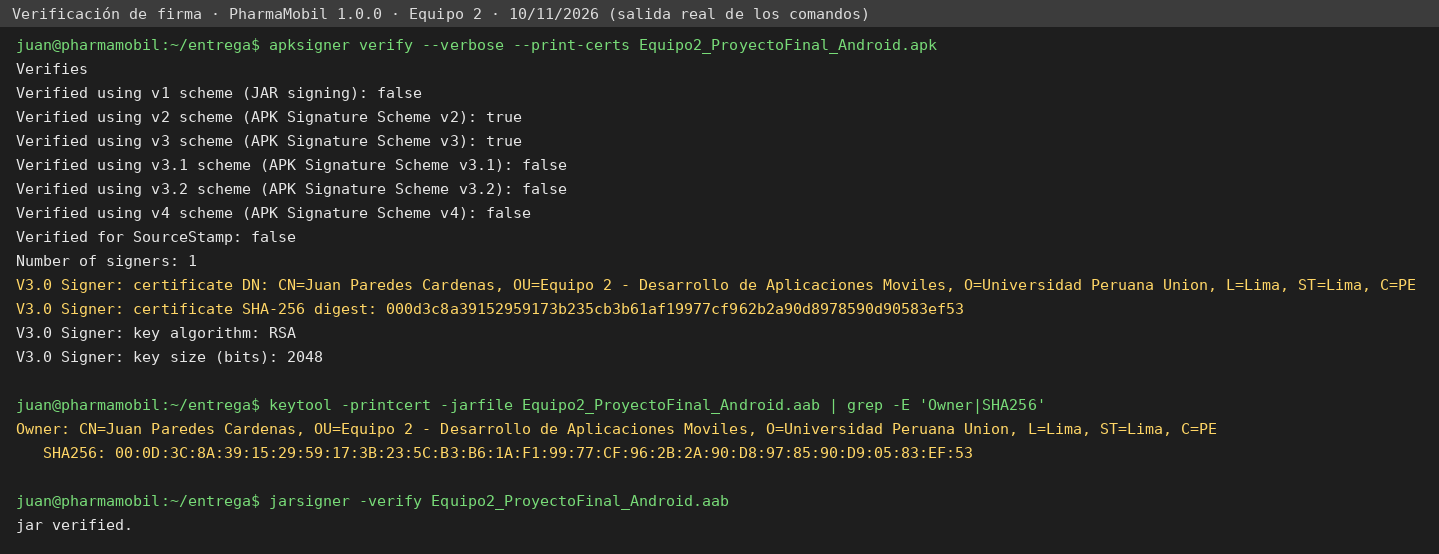
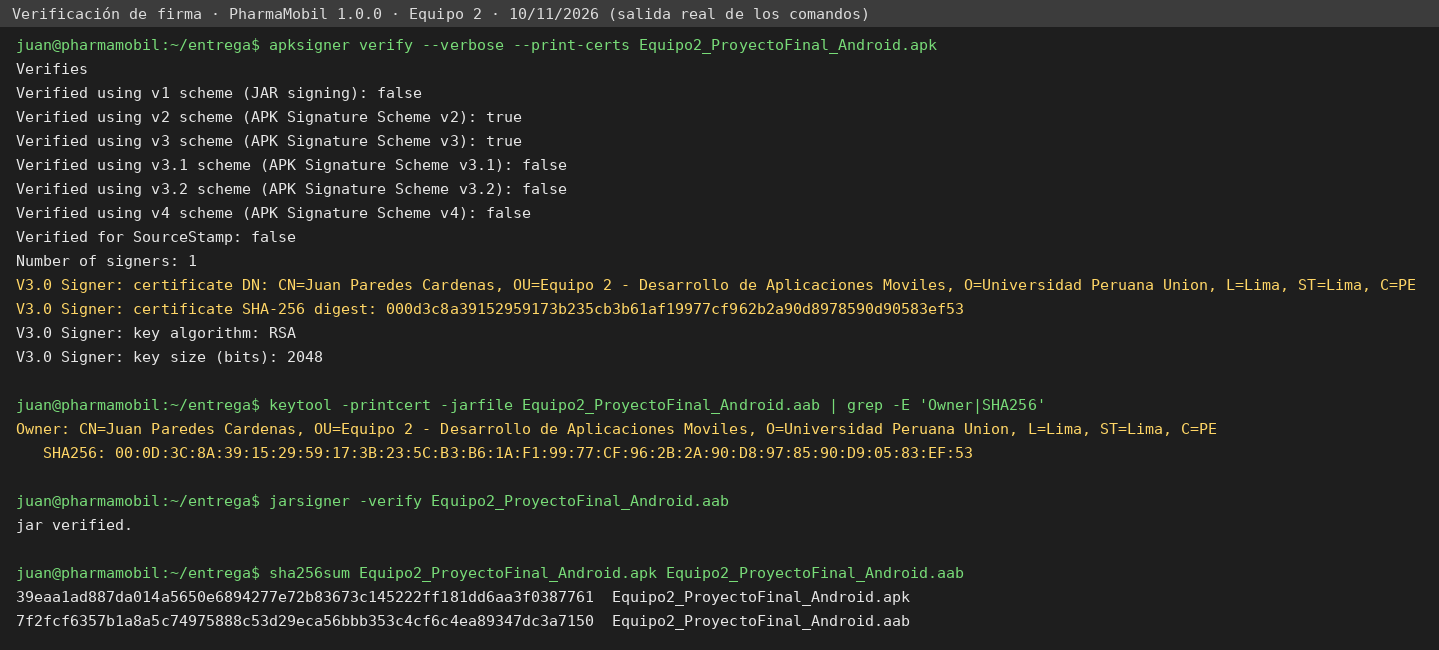
docs(sesion14): firma y huella del APK y AAB definitivos que apuntan a Azure; quitar cache de Python
Claude-Session: https://claude.ai/code/session_01FTSFct5Q4FZG8KVVbrUBPt

Changed region(s): [[0.0, 0.0, 1.0, 0.8285], [0.0, 0.8592, 0.6727, 0.9819], [0.3669, 0.3375, 0.3975, 0.3682]]

diff --git a/docs/sesion14-builds.md b/docs/sesion14-builds.md
@@ -100,16 +100,18 @@ habría que publicar la aplicación con otro identificador.
 ejecuta en GitHub Actions (Ubuntu, JDK 21, AGP 9.0.1, build-tools 37.0.0) las dos tareas de la guía:
 
 ```bash
-./gradlew :androidApp:bundleRelease  -PpharmaApiUrl=http://10.40.28.47:8080/api/v1/   # → .aab (entregable E3)
-./gradlew :androidApp:assembleRelease -PpharmaApiUrl=http://10.40.28.47:8080/api/v1/   # → .apk (pruebas)
+./gradlew :androidApp:bundleRelease  -PpharmaApiUrl=https://pharmasoft-equipo2-upeu.azurewebsites.net/api/v1/   # → .aab (entregable E3)
+./gradlew :androidApp:assembleRelease -PpharmaApiUrl=https://pharmasoft-equipo2-upeu.azurewebsites.net/api/v1/   # → .apk (pruebas)
 ```
 
-`10.40.28.47` es la IPv4 del Wi-Fi de la PC donde corre PharmaSoft (`ipconfig`), tomada de
-[ci/sesion14/pharma-api-url.txt](../ci/sesion14/pharma-api-url.txt).
+La URL se toma de [ci/sesion14/pharma-api-url.txt](../ci/sesion14/pharma-api-url.txt). Primero se compiló con la
+IPv4 de la PC en el Wi-Fi de la universidad (`http://10.40.28.47:8080/api/v1/`, run `42890970597`); como esa red
+(10.40.x.x) no garantiza que el teléfono alcance la PC, PharmaSoft se publicó en Azure App Service
+(ver «Servicio en Azure» más abajo) y el APK definitivo apunta a `https://pharmasoft-equipo2-upeu.azurewebsites.net/api/v1/`.
 
 **Quién firma.** Con `keystore.properties` presente (PC del responsable o *Secrets* de GitHub), Gradle firma al
 compilar. En esta entrega no se cargaron los *Secrets* en GitHub, así que el workflow publica los dos artefactos
-**sin firmar** (rama `evidencias-s14-ci`, carpeta `entrega/sin-firmar`, run `42890970597`, commit `2791574`) junto
+**sin firmar** (rama `evidencias-s14-ci`, carpeta `entrega/sin-firmar`, run `42902994003`, commit `1b69cb5`) junto
 con `apksigner.jar` de build-tools 37.0.0, y el responsable los firmó fuera del repositorio con `equipo2.jks`
 mediante [scripts/firmar-entrega.sh](../scripts/firmar-entrega.sh): `apksigner sign` para el APK (esquemas v2 y
 v3) y `jarsigner` SHA256withRSA para el AAB, que es el mecanismo con que Gradle firma un paquete de aplicación.
@@ -128,8 +130,8 @@ compilación; esos archivos no se entregan.
 | `jarsigner -verify` (AAB) | `jar verified.` con el mismo titular y huella (`keytool -printcert -jarfile`) |
 | `bundletool validate` y `build-apks --mode=universal` | El AAB se valida y produce `universal.apk`, que instala y abre en el emulador (`evidencias-ci/emulador/00-universal-desde-aab.png`) |
 | Alineación del APK | 0 entradas sin comprimir desalineadas |
[4 lines of base64/hex data omitted]
 
 La contraseña no aparece en ningún registro ni documento. Ficha de versión: `applicationId pe.upeu.pharmamobil`,
 `versionCode 1`, `versionName 1.0.0` (leídos del APK instalado con `dumpsys package`, ver paso 5).
